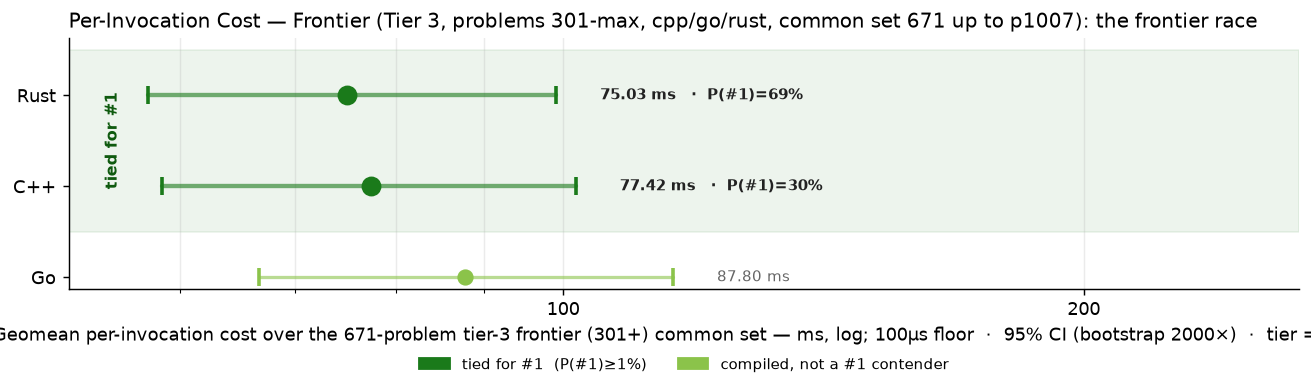
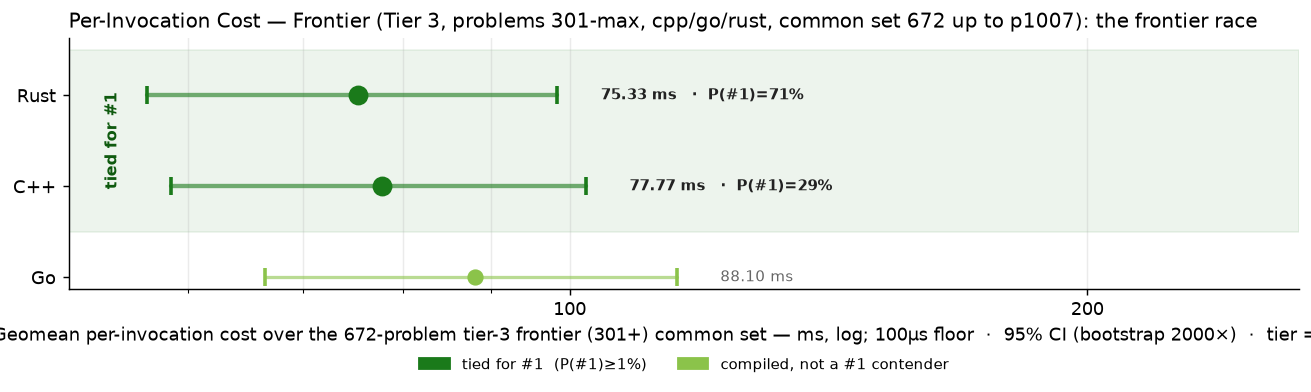
cpp p0870

diff --git a/RESULTS.md b/RESULTS.md
@@ -1,6 +1,6 @@
 # Project Euler — Cross-Language Benchmarks
 
-> **Scope: 4521 in-scope cells across 1007 problems × tiered languages — 4447 measured (98.4% coverage).**
+> **Scope: 4521 in-scope cells across 1007 problems × tiered languages — 4448 measured (98.4% coverage).**
 > The cross-language ranking below is computed over the **200-problem common set** (problems in 1-200 where every language has a passing measurement) — the apples-to-apples Foundation comparison surface.  Per-tier rankings and coverage detail appear further below.
 > Growing carefully — each new problem and language is audited for state-leak
 > safety, verified for answer correctness, and added only when it cleanly fits the
@@ -70,15 +70,15 @@ Same scatter as the Foundation chart, restricted to the tier-2 active languages 
 
 The frontier verification trio — C++, Go, Rust — on problems above 300. 3-way cross-language agreement is the verification protocol (strictly stronger than 2-way; see JOURNEY.md "Tier Reframing" episode for the p254 lesson that motivated it). Python and Zig are explicitly out of this tier — python's wall cost makes it impractical at level 5+, and zig's role caps at Tier 2.
 
-### Per-Invocation Cost (Common Set, 671 of ≤707 problems in scope)
+### Per-Invocation Cost (Common Set, 672 of ≤707 problems in scope)
 
 ![Per-Invocation Cost — Tier 3](charts/per_iter_total_tier3.png)
 
-| Rank | Language | Geomean (671-problem common set) | Total (sum) | Lines of code | vs Fastest |
+| Rank | Language | Geomean (672-problem common set) | Total (sum) | Lines of code | vs Fastest |
 |------|----------|--------------------:|------------:|--------------:|-----------:|
-| 1 | **Rust** | 75.03 ms | 1765.11 s | 135,643 | 1.00× |
-| 2 | **C++** | 77.42 ms | 1914.52 s | 99,403 | 1.03× |
-| 3 | **Go** | 87.80 ms | 2137.74 s | 126,798 | 1.17× |
+| 1 | **Rust** | 75.33 ms | 1766.20 s | 135,934 | 1.00× |
+| 2 | **C++** | 77.77 ms | 1916.09 s | 99,610 | 1.03× |
+| 3 | **Go** | 88.10 ms | 2138.66 s | 126,937 | 1.17× |
 
 ### Speed vs Code Size
 
@@ -264,7 +264,7 @@ table never silently mixes versions (METHODOLOGY.md §4).  Current state of the
 |----------|-----------|------:|---------------|
 | **ARM64** | `Apple clang version 21.0.0 (clang-2100.1.1.101)` | 200 | 2026-07-30 |
 | **C** | `Apple clang version 21.0.0 (clang-2100.1.1.101)` | 200 | 2026-07-30 |
-| **C++** | `Apple clang version 21.0.0 (clang-2100.1.1.101)` | 971 | 2026-09-06 |
+| **C++** | `Apple clang version 21.0.0 (clang-2100.1.1.101)` | 972 | 2026-09-06 |
 | **C#** | `10.0.101` | 200 | 2026-07-30 |
 | **Go** | `go version go1.26.5 darwin/arm64` | 974 | 2026-09-06 |
 | **Java** | `openjdk version "21.0.2" 2024-01-16 LTS` | 200 | 2026-07-30 |

diff --git a/per_problem/per_problem_0801-0900.md b/per_problem/per_problem_0801-0900.md
@@ -77,7 +77,7 @@ in tier-1 display order (native → managed → interpreted).
 | **p0867** | 17.21 s | 45.43 ms | 2.74 s |
 | **p0868** | 1.7 µs | 16.31 ms | 5.8 µs~ |
 | **p0869** | 1.31 s | 381.19 ms | 1.30 s |
-| **p0870** | — | 1.09 s | 913.49 ms |
+| **p0870** | 1.57 s | 1.09 s | 913.49 ms |
 | **p0871** | 615.44 ms | 640.00 ms | 440.32 ms |
 | **p0872** | <1 µs~ | <1 µs | 1.1 µs~ |
 | **p0873** | 4.91 s | 2.14 s | 2.33 s |
